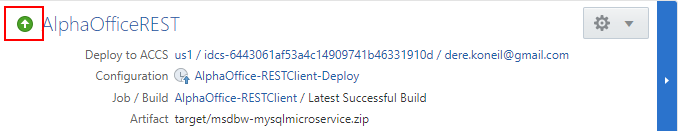
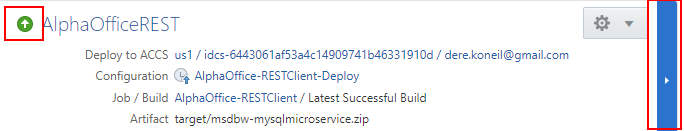
updates

Changed region(s): [[0.9211, 0.0, 1.0, 1.0]]

diff --git a/workshops/devcs-mysql/Lab200.md b/workshops/devcs-mysql/Lab200.md
@@ -179,8 +179,7 @@ Application Name: AlphaOfficeREST
 
 - **The deployment connects to the Application Container Cloud Service in your Trial Account and deploys the application into a container** (Docker in this case). It may be several minutes before it is completed.
 
-**ON rare occasions you may see a Gateway Timeout (error 504) but the deployment actually finished. You can refresh the browser page at this point to verify:**
-
+**ON rare occasions you may see a Gateway Timeout (error 504) but the deployment actually finishes. You can refresh the browser page at this point to verify. Clicking the right hand Blue Bar shows history of deployments, start/stops, etc.**
 
   ![](images/200/42-6.PNG)
 
@@ -198,9 +197,7 @@ Application Name: AlphaOfficeREST
 
   ![](images/200/27.PNG)
 
-- If required, A Redpeloy should be successful:
-
-- You can check the deployment inside the Application Container Cloud Service Console by going to the main Dashboard and clicking on the Application Container **hamburger menu**, right-clicking on **Open Service Console** and selecting **Open link in new tab**.
+- You can double check the deployment inside the Application Container Cloud Service Console by going to the main Dashboard and clicking on the Application Container **hamburger menu**, right-clicking on **Open Service Console** and selecting **Open link in new tab**.
   
   ![](images/200/28.PNG)
 
@@ -397,7 +394,7 @@ Application Name: AlphaOfficeUI
 
 - **The deployment connects to the Application Container Cloud Service in your Trial Account and deploys the application into a container** (Docker in this case). It may be several minutes before it is completed.
 
-**ON rare occasions you may see a Gateway Timeout (error 504) but the deployment actually finished. You can refresh the browser page at this point to verify:**
+**ON rare occasions you may see a Gateway Timeout (error 504) but the deployment actually finishes. You can refresh the browser page at this point to verify. Clicking the right hand Blue Bar shows history of deployments, start/stops, etc.**
 
   ![](images/200/42-2.PNG)
 
@@ -414,8 +411,6 @@ Application Name: AlphaOfficeUI
 - Example screen shot of a Redeploy
 
   ![](images/200/43.PNG)
-
-- If required, A Redpeloy should be successful:
 
   ![](images/200/44.PNG)
 
